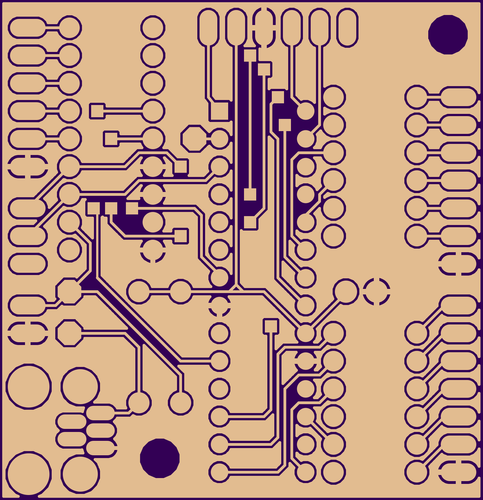
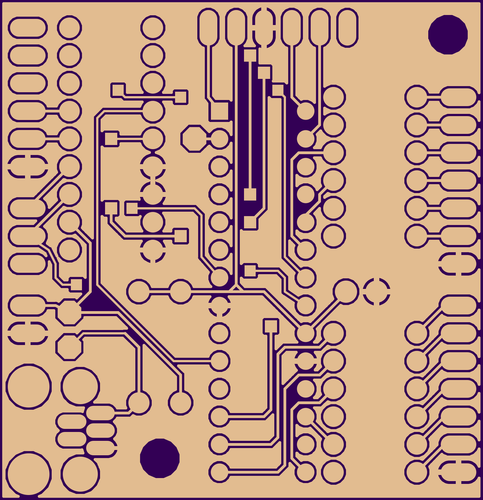
Version 0.1.1. Applied all items in the To Do list.

diff --git a/README.md b/README.md
@@ -18,18 +18,3 @@ It can be fed either or by both:
 2. A micro-USB port.
 
 Both supplies are paralleled with diodes, and the PIC monitors the batteries' voltage so that an alarm (blinking LED) is raised when the batteries are low. For 1.5V AA batteries, this would be pretty much when they get under 1V.
-
-## To do
-
-These corrections would make it version 0.1.1. They are all based on version 0.1.0:
-
-- Do a quality-check of the schematic and all images generated by OSH Park;
-- The hour header's and its associated resistors' silkscreens are all at the bottom of the PCB, not the top. They should be switched;
-- I am not entirely confortable with the spacing between 2 vias near the programming header. They can and should be spaced more;
-- The PCB's title is partially hidden by the mounting hole. It's also quite tiny, maybe I should split it and increase the font size;
-- The programming header's arrow is too big;
-- The battery header's label is partially hidden by the VBAT test point;
-- Perhaps the test points are a bit too big for no reason. It's not really a problem, unless I want to solder something in it;
-- On the bottom copper layer pin 3 of the adjustment header is not tied to ground. I think it should be. Update: No, it's tied to Vdd which is fine (top layer);
-- Add other connections between the USB port's ground pin and the ground plane, on both the top and bottom layers.
-- Use interrupt enabled pins for adjustments
